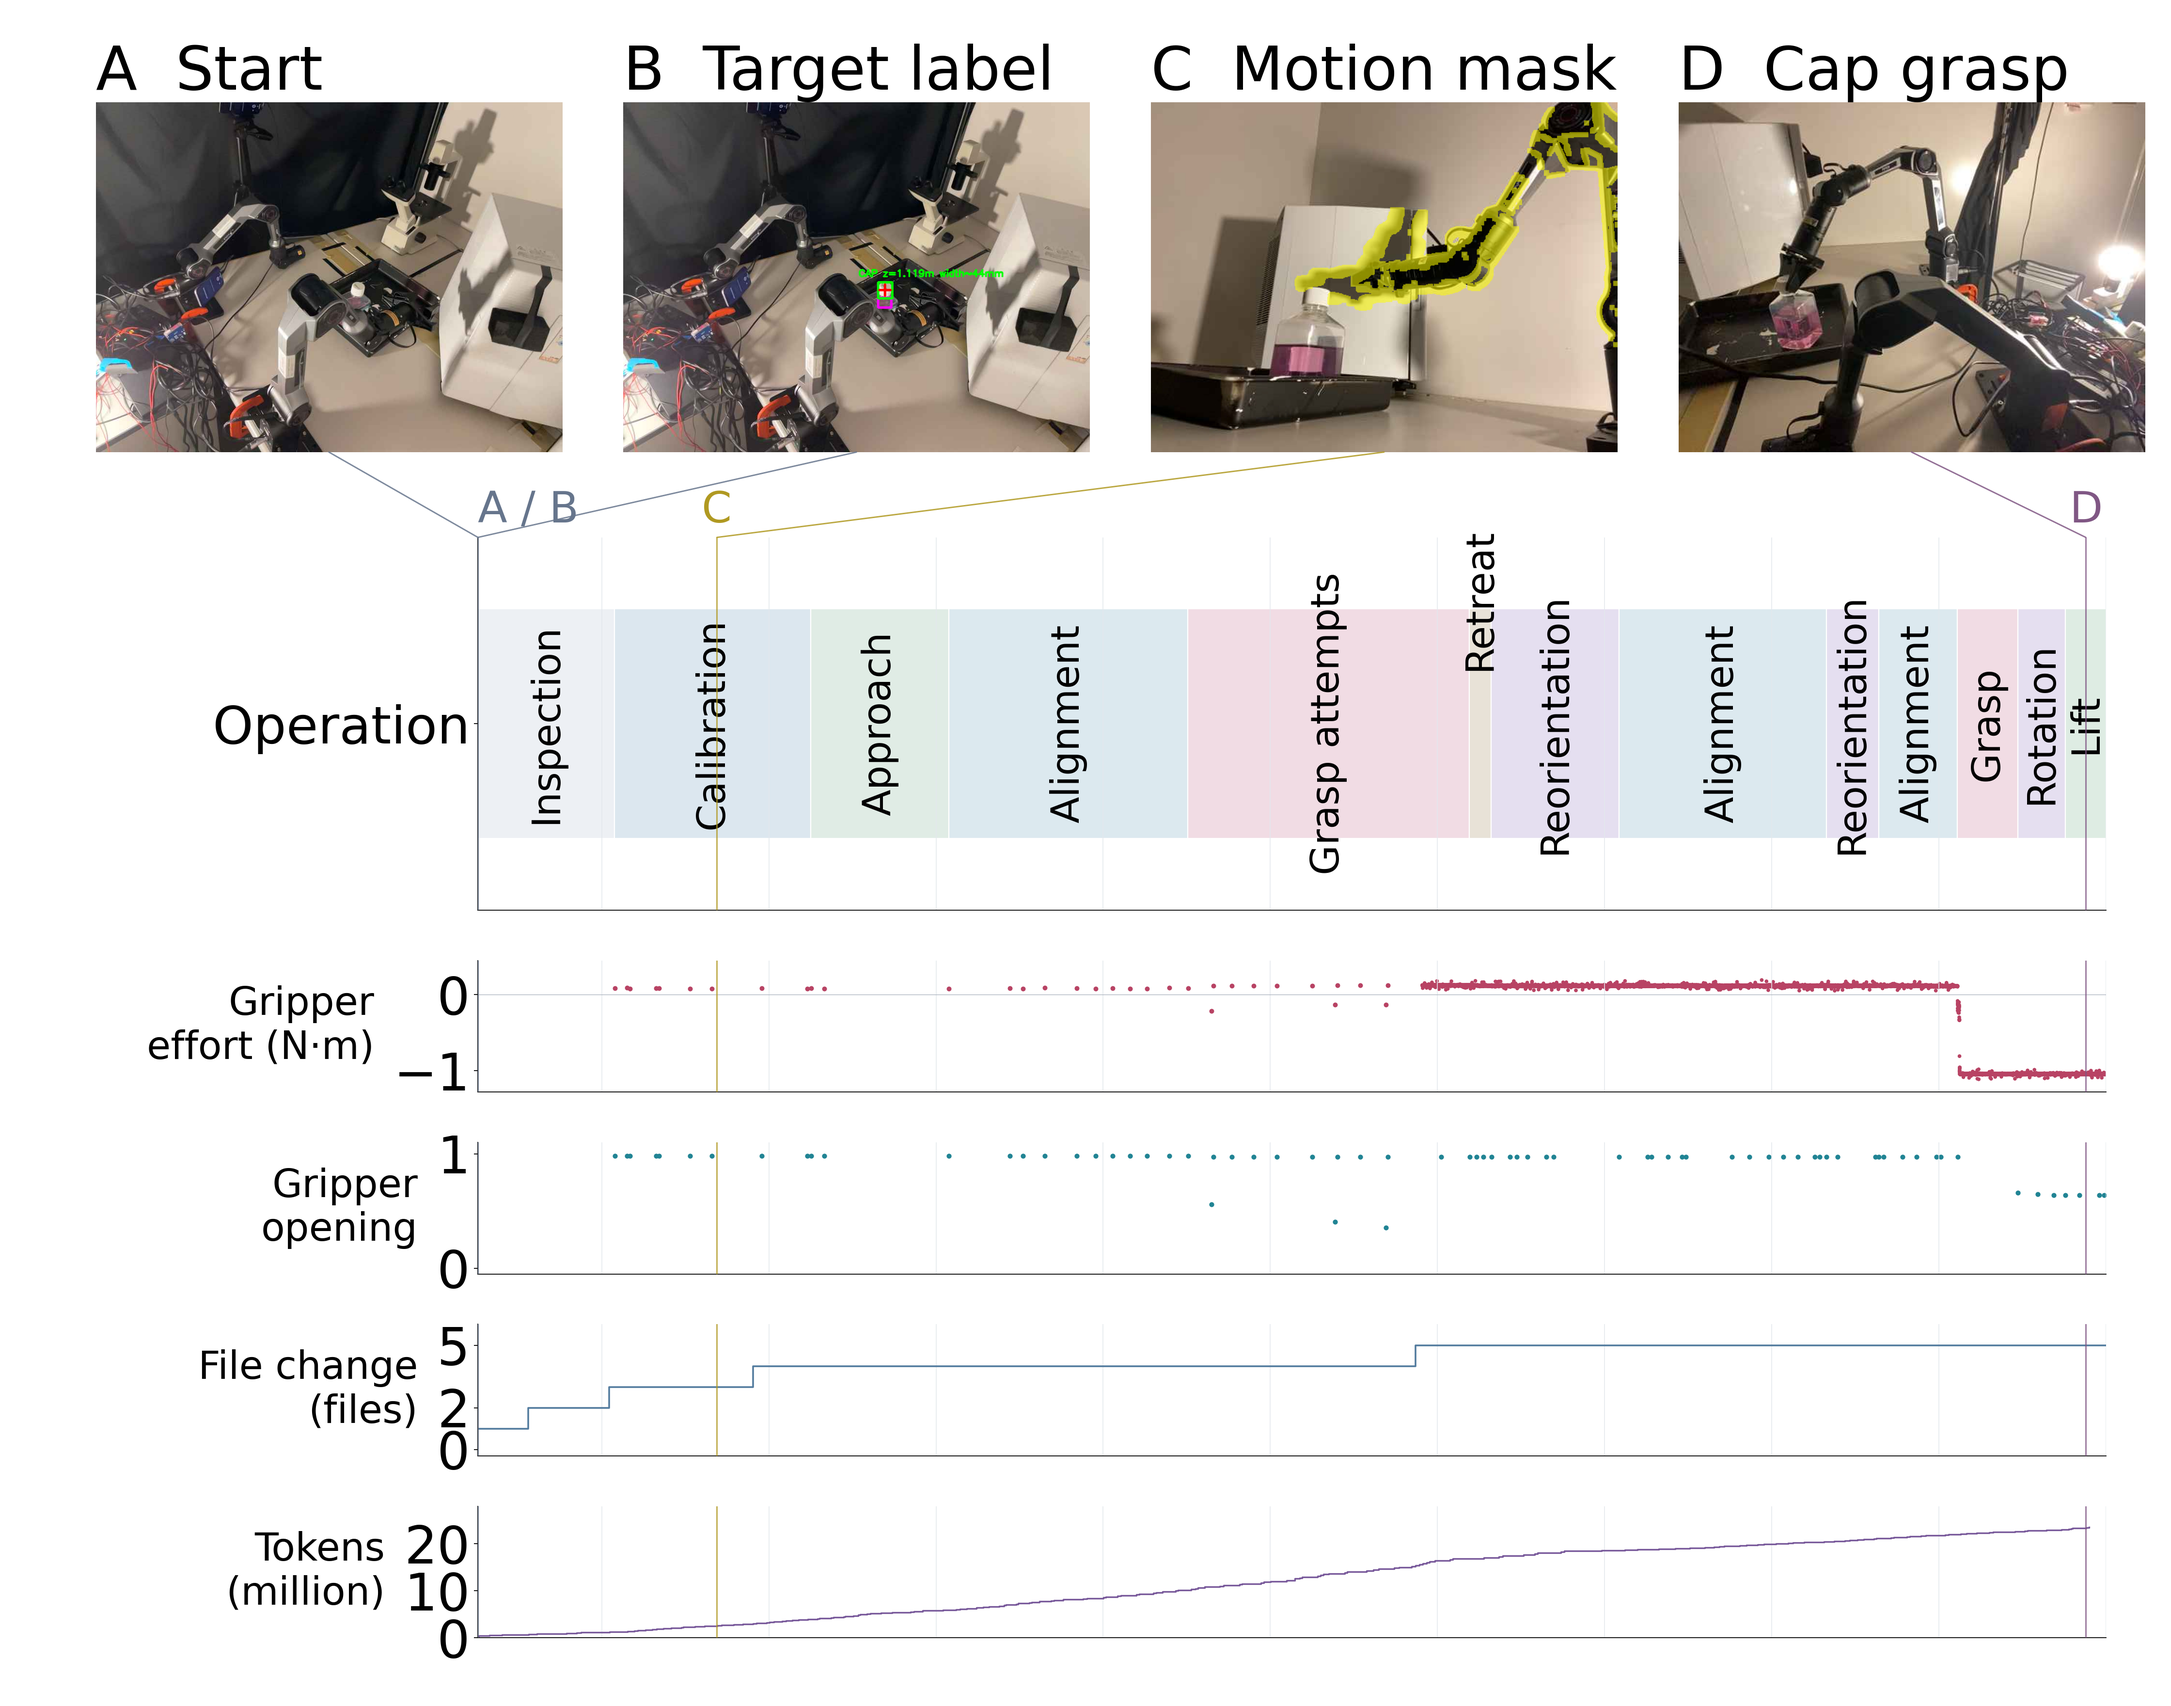
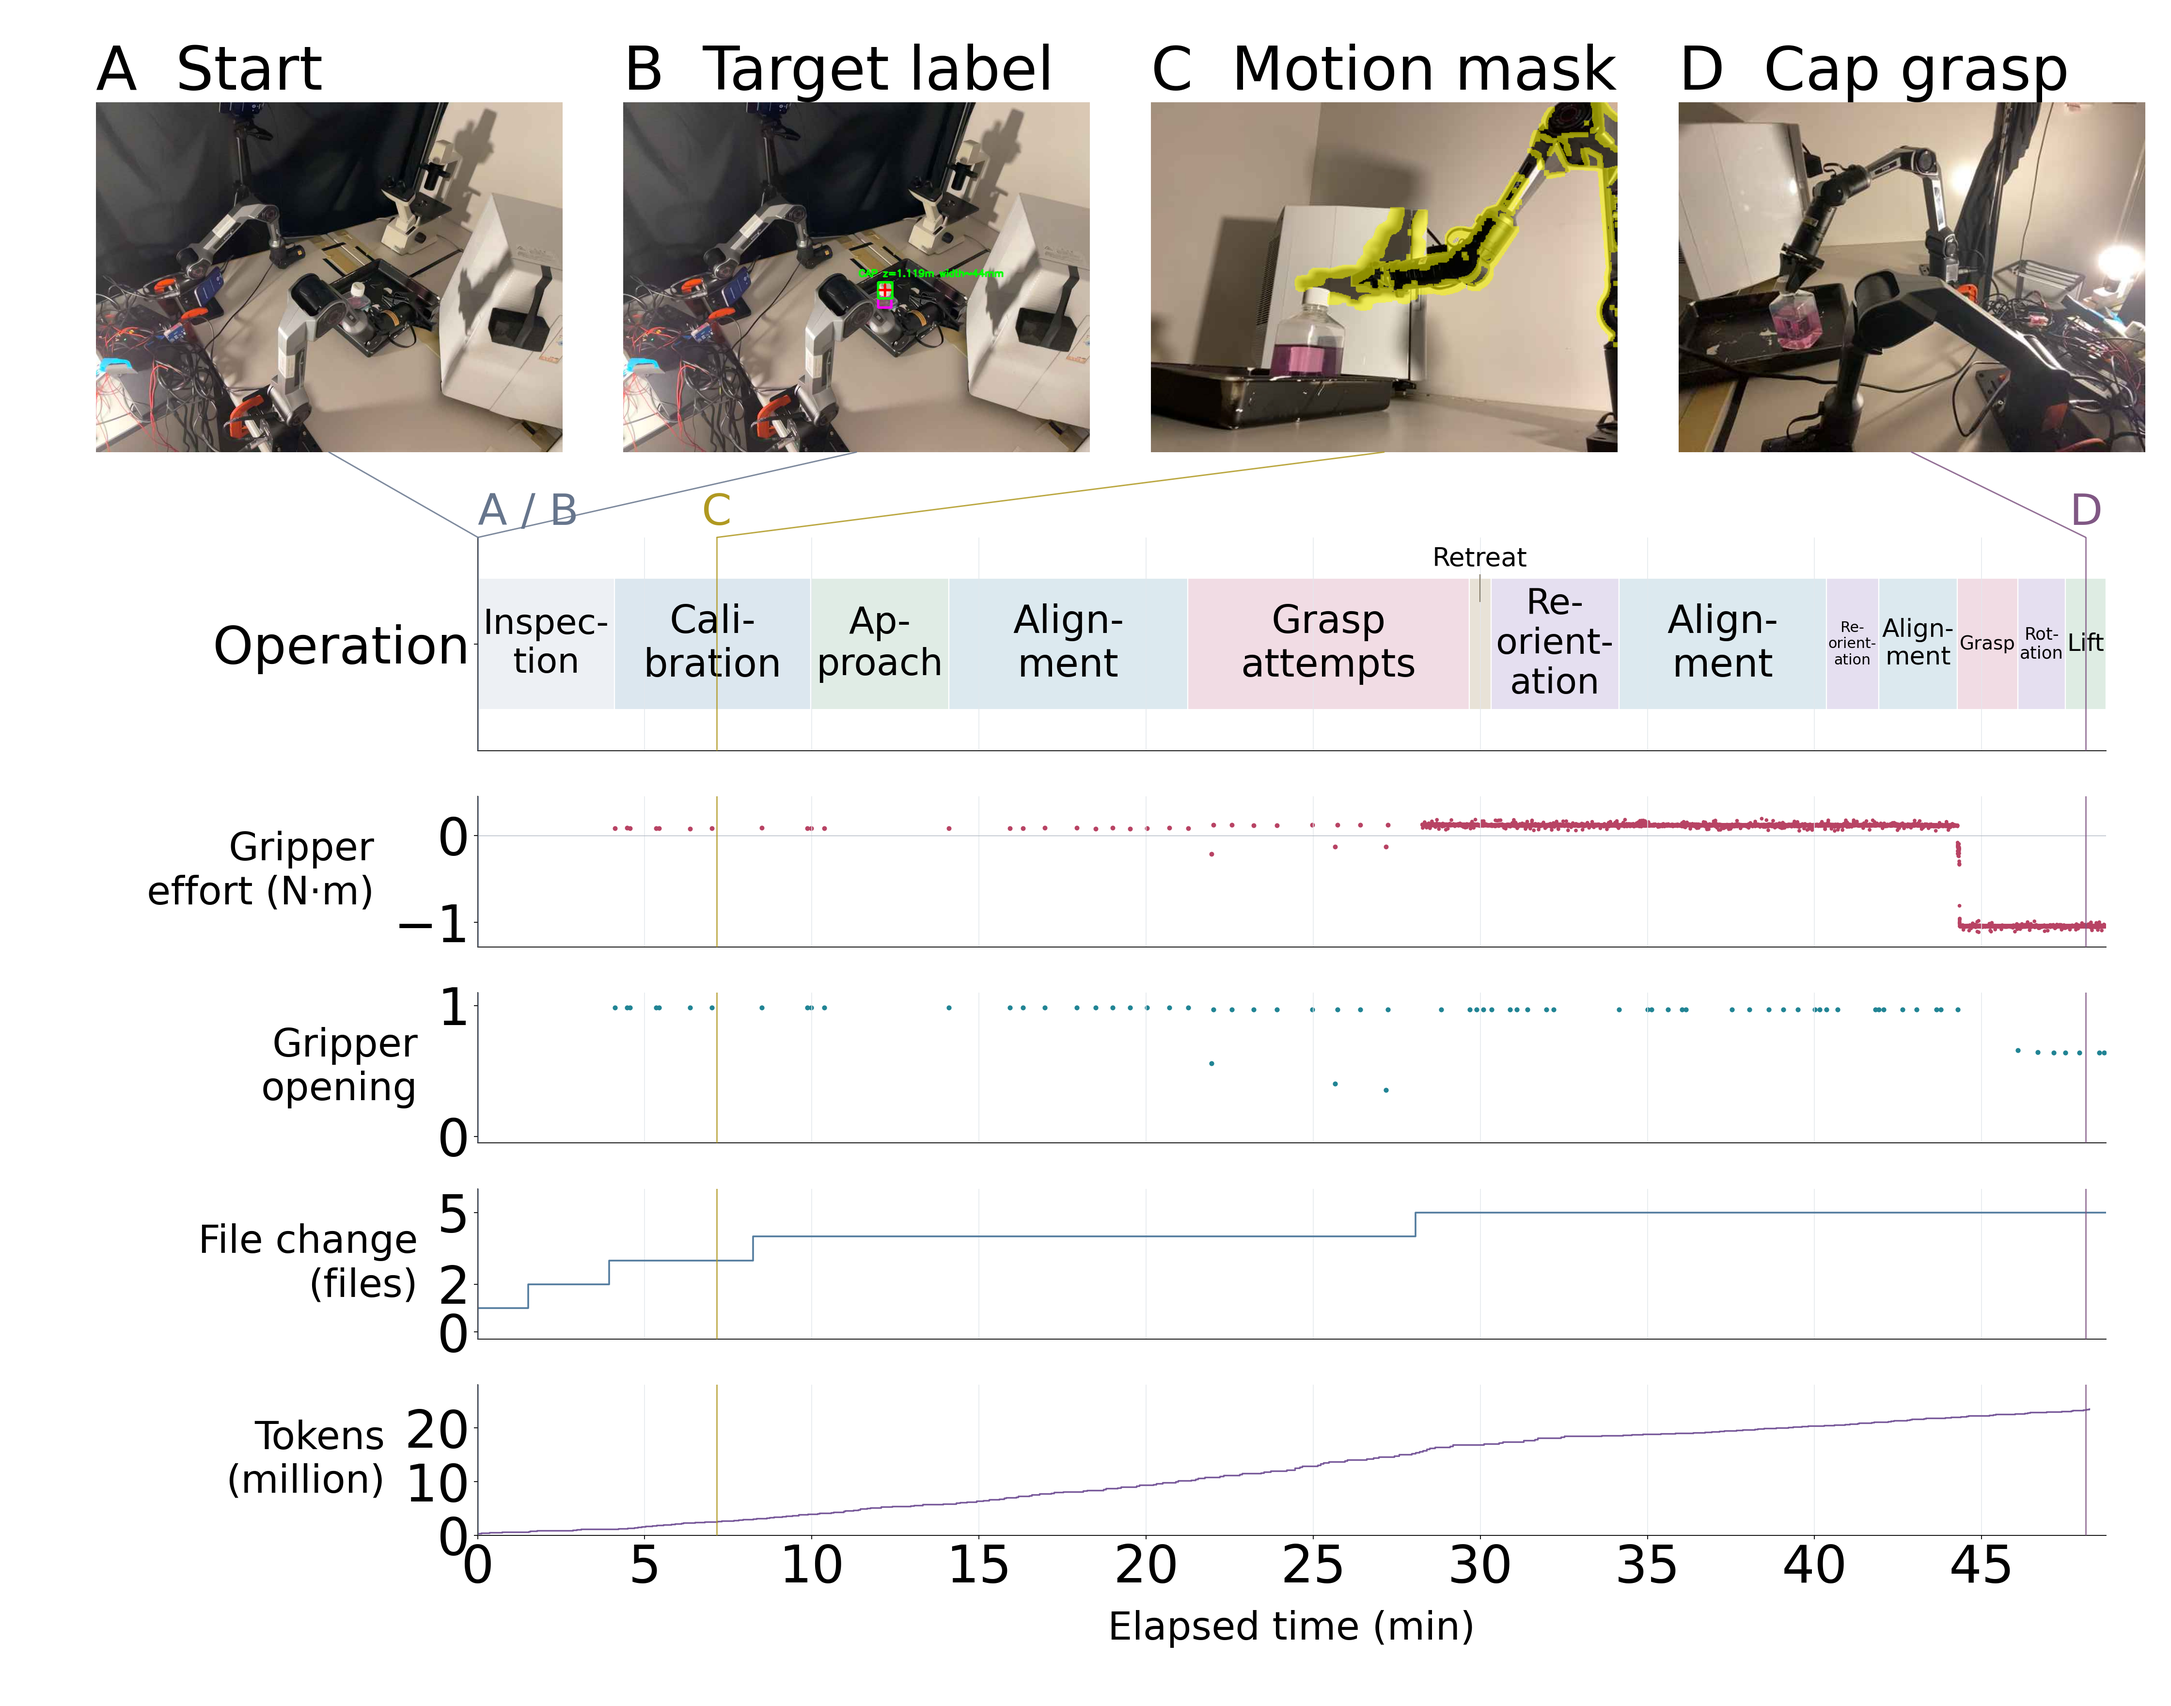
labB timeline figure: elapsed-time axis, wrapped operation labels

diff --git a/src/plot_labb_timeline_compact.py b/src/plot_labb_timeline_compact.py
@@ -112,11 +112,11 @@ def main():
         ax=fig.add_axes([.037+i*.243,.735,.229,.205])
         ax.imshow(plt.imread(p)); ax.axis('off'); ax.set_title(label,loc='left',fontsize=14,pad=12)
         image_axes.append(ax)
-    gs=fig.add_gridspec(5,1,left=.22,right=.97,top=.685,bottom=.04,height_ratios=[3.4,1.2,1.2,1.2,1.2],hspace=.28)
+    gs=fig.add_gridspec(5,1,left=.22,right=.97,top=.685,bottom=.10,height_ratios=[1.7,1.2,1.2,1.2,1.2],hspace=.28)
     axes=[fig.add_subplot(gs[i]) for i in [1,2,3,4,0]]
     clocks=['21:15:00','21:20:00','21:25:00','21:30:00','21:35:00','21:40:00','21:45:00','21:50:00','21:55:00','22:00:00']
     for ax in axes:
-        ax.set_xlim(0,x(end)); ax.set_xticks([at(t) for t in clocks]); ax.tick_params(axis='x',labelbottom=False,bottom=False)
+        ax.set_xlim(0,x(end)); ax.set_xticks(np.arange(0,49,5)); ax.tick_params(axis='x',labelbottom=False,bottom=False)
         ax.grid(axis='x',color='#e3e8ed',lw=.7)
     sparse=[r for r in audit if r.get('before') and 'gripper_effort_Nm' in r['before'] and stamp(r)<times[0]]
     axes[0].scatter([x(stamp(r)) for r in sparse],[r['before']['gripper_effort_Nm'] for r in sparse],s=12,color='#b84364',label='Pre-command samples')
@@ -164,6 +164,8 @@ def main():
     axes[3].step(tx,[r['total_tokens']/1e6 for r in metrics['tokens']],where='post',color='#795a9b',lw=1.5)
     axes[3].set_ylabel('Tokens\n(million)'); axes[3].set_ylim(0,28)
     axes[3].set_yticks([0,10,20])
+    axes[3].tick_params(axis='x',labelbottom=True,bottom=True)
+    axes[3].set_xlabel('Elapsed time (min)',fontsize=9,labelpad=16)
     ax=axes[4]; ax.set_ylim(-.6,.6); ax.set_yticks([0],['Operation'])
     spans=[
         ('21:11:17','21:15:23',0,'Inspection','#edf0f4'),
@@ -179,11 +181,18 @@ def main():
         ('21:55:33','21:57:22',0,'Grasp','#f1dce4'),
         ('21:57:22','21:58:47',0,'Rotation','#e5dff0'),
         ('21:58:47','22:00:00',0,'Lift','#deece3')]
+    operation_text=[]
+    wrapped={'Inspection':'Inspec-\ntion','Calibration':'Cali-\nbration',
+             'Approach':'Ap-\nproach','Alignment':'Align-\nment',
+             'Grasp attempts':'Grasp\nattempts','Reorientation':'Re-\norient-\nation',
+             'Rotation':'Rot-\nation'}
     for a,b,y,label,color in spans:
         ax.barh(y,at(b)-at(a),left=at(a),height=.74,color=color,edgecolor='white')
-        # Narrow phases need a separate label height to keep doubled text apart.
-        label_y=.40 if label=='Retreat' else 0
-        ax.text((at(a)+at(b))/2,label_y,label,ha='center',va='center',fontsize=9,rotation=90)
+        label_y=.48 if label=='Retreat' else 0
+        text=ax.text((at(a)+at(b))/2,label_y,wrapped.get(label,label),ha='center',va='center',fontsize=9)
+        if label=='Retreat':
+            ax.plot([(at(a)+at(b))/2]*2,[.24,.39],color='#847b68',lw=1)
+        operation_text.append((text,at(b)-at(a),label=='Retreat'))
     for axis in axes:
         axis.yaxis.label.set_fontsize(9)
         axis.yaxis.label.set_rotation(0)
@@ -207,6 +216,15 @@ def main():
     from matplotlib.text import Text
     for text in fig.findobj(match=Text):
         text.set_fontsize(text.get_fontsize()*4)
+    fig.canvas.draw()
+    renderer=fig.canvas.get_renderer()
+    for text,width,callout in operation_text:
+        if callout:
+            text.set_fontsize(24)
+            continue
+        available=axes[4].bbox.width*width/x(end)*.92
+        measured=text.get_window_extent(renderer=renderer).width
+        text.set_fontsize(min(text.get_fontsize(),text.get_fontsize()*available/max(1,measured)))
     output=BASE/'timeline_pressure_tool_changes.png'
     fig.savefig(output,dpi=160,facecolor='white'); plt.close(fig)
     report={'images':[{'path':str(p.relative_to(ROOT)),'label':label} for p,label in images],
